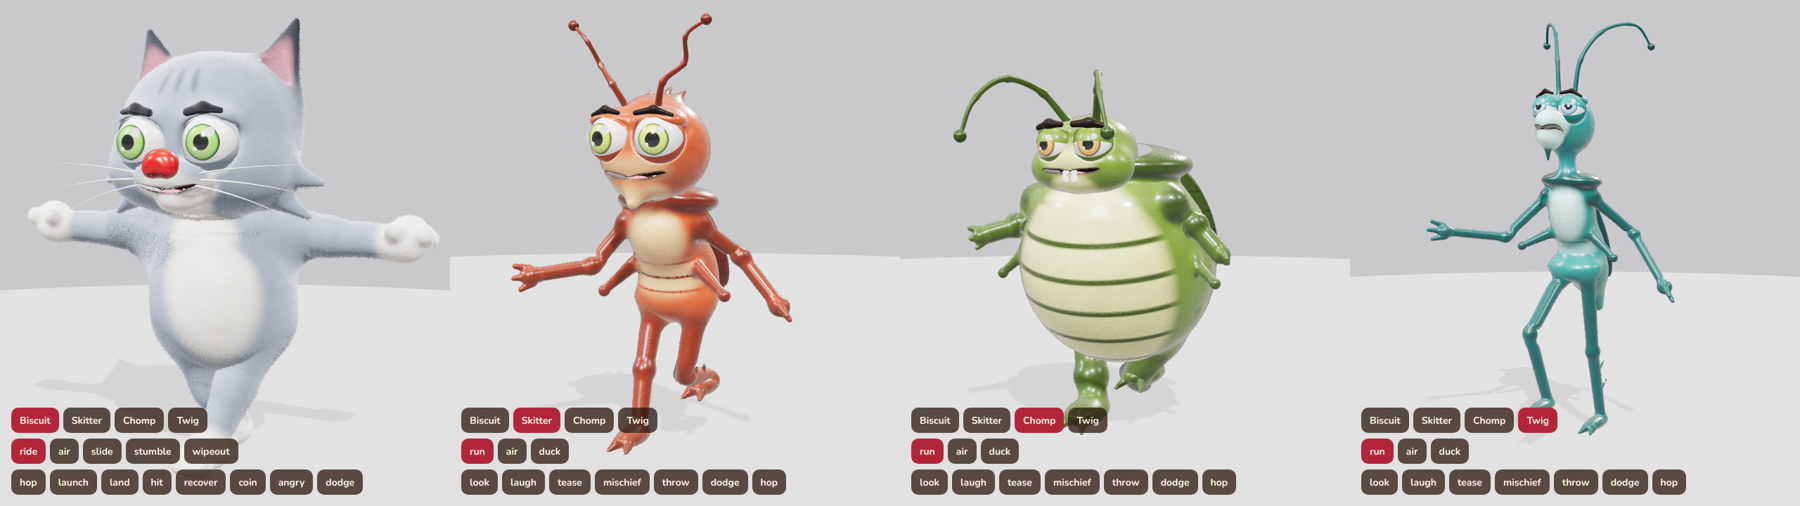
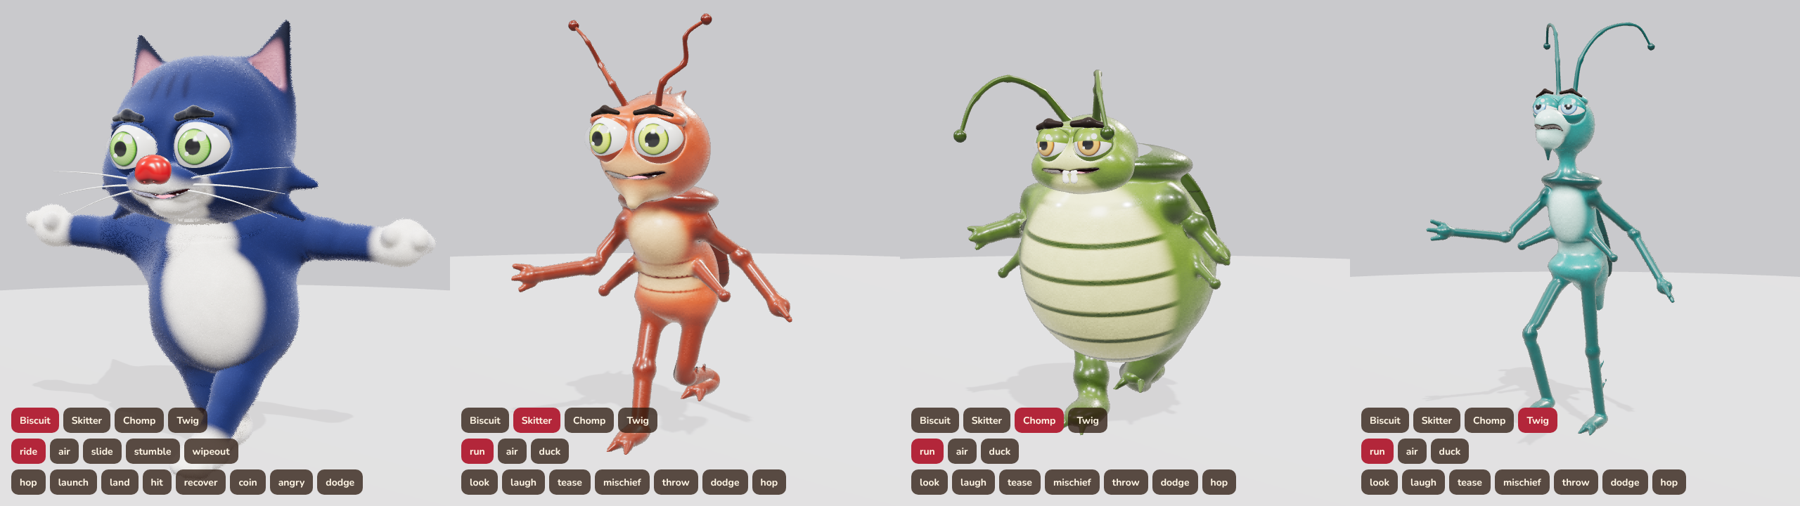
Recolour Biscuit to a deep navy coat
Navy fur with near-black ear and tail points, darker forehead marks and a
cooler sheen; cream muzzle, belly and paws unchanged.

Claude-Session: https://claude.ai/code/session_015kD4boFWxj5BAmrCyperFW

Changed region(s): [[0.0311, 0.0296, 0.2489, 0.8597]]

diff --git a/src/characters/specs/catSpec.ts b/src/characters/specs/catSpec.ts
@@ -8,9 +8,9 @@ import type { SculptSpec, V3 } from '../sculpt/types';
  * y = 0, facing +z, +x is the cat's left.
  */
 export const CAT = {
-  fur: '#939dab',
-  furDark: '#6e7886',
-  point: '#2a2d34',
+  fur: '#1d3263',
+  furDark: '#14244a',
+  point: '#121828',
   cream: '#f3ece1',
   pink: '#de97a3',
   nose: '#c8221f',
@@ -65,7 +65,7 @@ function bones(b: SpecBuilder) {
 /** Head and face: sculpted at twice the body resolution so the mouth crease, lids and ears stay crisp. */
 export function catHeadSpec(): SculptSpec {
   const C = CAT;
-  const b = new SpecBuilder('cat-head-v7', [-0.56, 1.1, -0.38], [0.56, 1.98, 0.56], 0.0062, C.fur, 0.9);
+  const b = new SpecBuilder('cat-head-v9', [-0.56, 1.1, -0.38], [0.56, 1.98, 0.56], 0.0062, C.fur, 0.9);
   b.spec.noise = { amp: 0.05, freq: 30 };
   b.spec.relax = 2;
   bones(b);
@@ -95,7 +95,7 @@ export function catHeadSpec(): SculptSpec {
 /** Body, limbs and tail. The head is a separate fine mesh whose seam sits inside the neck. */
 export function catSpec(): SculptSpec {
   const C = CAT;
-  const b = new SpecBuilder('cat-body-v6', [-0.82, -0.02, -1.05], [0.82, 1.36, 0.62], 0.0105, C.fur, 0.9);
+  const b = new SpecBuilder('cat-body-v8', [-0.82, -0.02, -1.05], [0.82, 1.36, 0.62], 0.0105, C.fur, 0.9);
   b.spec.noise = { amp: 0.06, freq: 26 };
   b.spec.relax = 2;
   bones(b);
@@ -165,7 +165,7 @@ function headCarveAndPaint(b: SpecBuilder) {
     .paint({ type: 'ell', c: [0, 1.04, 0.16], r: [0.14, 0.13, 0.1] }, C.cream, 0.03)
     .paint({ type: 'ell', c: [0, 1.255, 0.33], r: [0.175, 0.092, 0.13] }, C.cream, 0.02)
     .paint({ type: 'ell', c: [0, 1.18, 0.27], r: [0.12, 0.07, 0.12] }, C.cream, 0.02);
-  for (const x of [-0.065, 0, 0.065]) b.paint({ type: 'ell', c: [x, 1.62, 0.24], r: [0.017, 0.075, 0.07], rot: [-0.5, 0, x * 2] }, '#6c7480', 0.012);
+  for (const x of [-0.065, 0, 0.065]) b.paint({ type: 'ell', c: [x, 1.62, 0.24], r: [0.017, 0.075, 0.07], rot: [-0.5, 0, x * 2] }, '#122148', 0.012);
   b.mirror((s) => {
     b.paint({ type: 'cone', a: [0, -0.06, 0], b: [0, 0.34, 0], ra: 0.17, rb: 0.04, xf: earXf(s) }, C.point, 0.02);
     b.paint({ type: 'cone', a: [0, 0.03, 0.085], b: [0, 0.27, 0.085], ra: 0.095, rb: 0.01, xf: earXf(s) }, C.pink, 0.012, { rough: 0.6 });

diff --git a/src/characters/CatModel.ts b/src/characters/CatModel.ts
@@ -66,15 +66,15 @@ export class CatModel {
     this.root.add(this.sk.root);
     for (const b of this.sk.bones) this.rig.add(b.name, b);
 
-    this.fur = characterMaterial({ sheen: 0.9, sheenColor: '#eef3ff', bump: 0.55, bumpFreq: 140, rim: 0.22, rimColor: '#f4f0ff' }) as never;
+    this.fur = characterMaterial({ sheen: 0.5, sheenColor: '#8fa9e8', bump: 0.55, bumpFreq: 140, rim: 0.22, rimColor: '#f4f0ff' }) as never;
     this.headFur = this.fur;
     for (let i = 1; i <= FUR_SHELLS; i++) {
       const h = i / FUR_SHELLS;
-      this.shellMats.push(characterMaterial({ sheen: 0.9, sheenColor: '#eef3ff', rim: 0.2, shell: { h, offset: FUR_LENGTH * h, density: 520, fade: 7.5 } }));
+      this.shellMats.push(characterMaterial({ sheen: 0.5, sheenColor: '#8fa9e8', rim: 0.2, shell: { h, offset: FUR_LENGTH * h, density: 520, fade: 7.5 } }));
     }
 
     // ---- eyes (big, green), lids in fur colour
-    const lidMat = new THREE.MeshPhysicalMaterial({ color: CAT.fur, roughness: 0.85, sheen: 0.8, sheenColor: new THREE.Color('#eef3ff') });
+    const lidMat = new THREE.MeshPhysicalMaterial({ color: CAT.fur, roughness: 0.85, sheen: 0.8, sheenColor: new THREE.Color('#8fa9e8') });
     for (const s of [1, -1]) {
       const eye = new CartoonEye({ radius: CAT.eyeR, iris: '#7fcf45', irisDark: '#2c6a12', lidMaterial: lidMat, pupilScale: 0.95 });
       eye.group.position.set(s * CAT.eyePos[0], CAT.eyePos[1], CAT.eyePos[2]);

diff --git a/README.md b/README.md
@@ -85,7 +85,7 @@ decisions.
 
 The characters are original designs made for this project:
 
-- **Biscuit**, a chubby silver-grey colour-point cat with charcoal ears and
+- **Biscuit**, a chubby deep-navy colour-point cat with near-black ears and
   tail tip, cream muzzle, belly and mitten paws, a big red nose, green eyes,
   cheek ruffs and a long S-curved tail.
 - **Skitter**, a small, wiry, cocky orange roach with a spiky crest and
